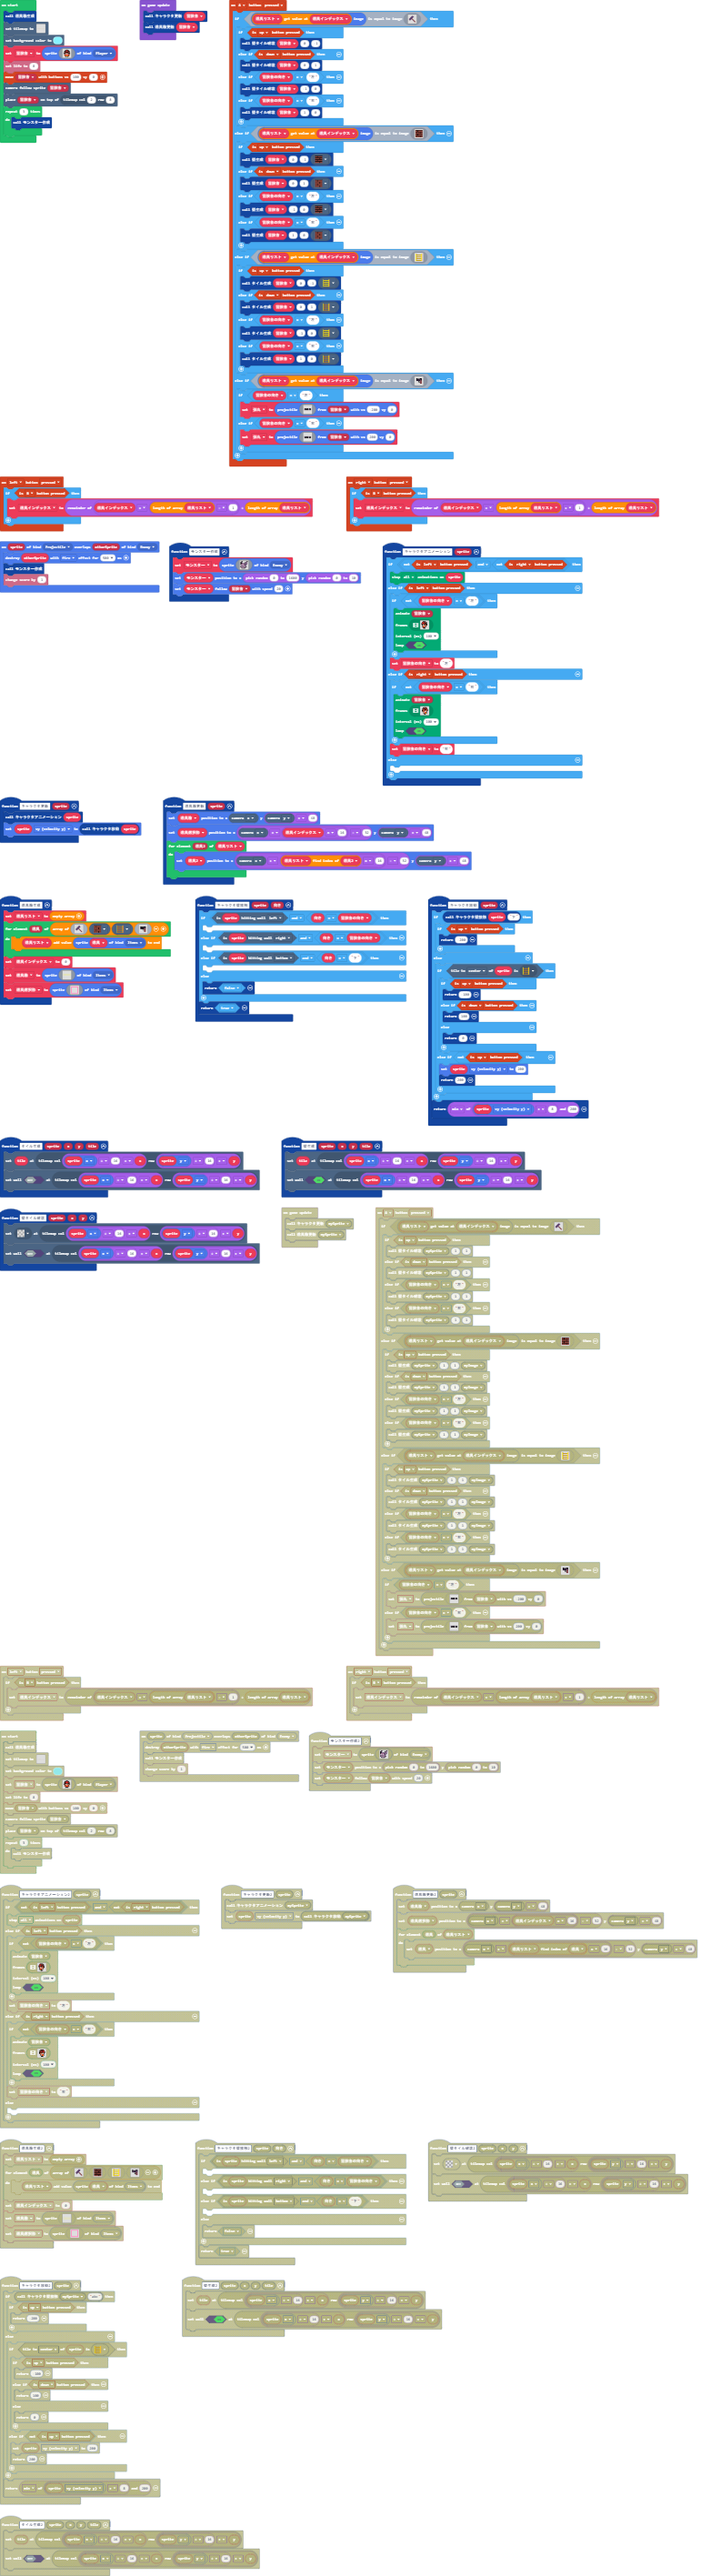
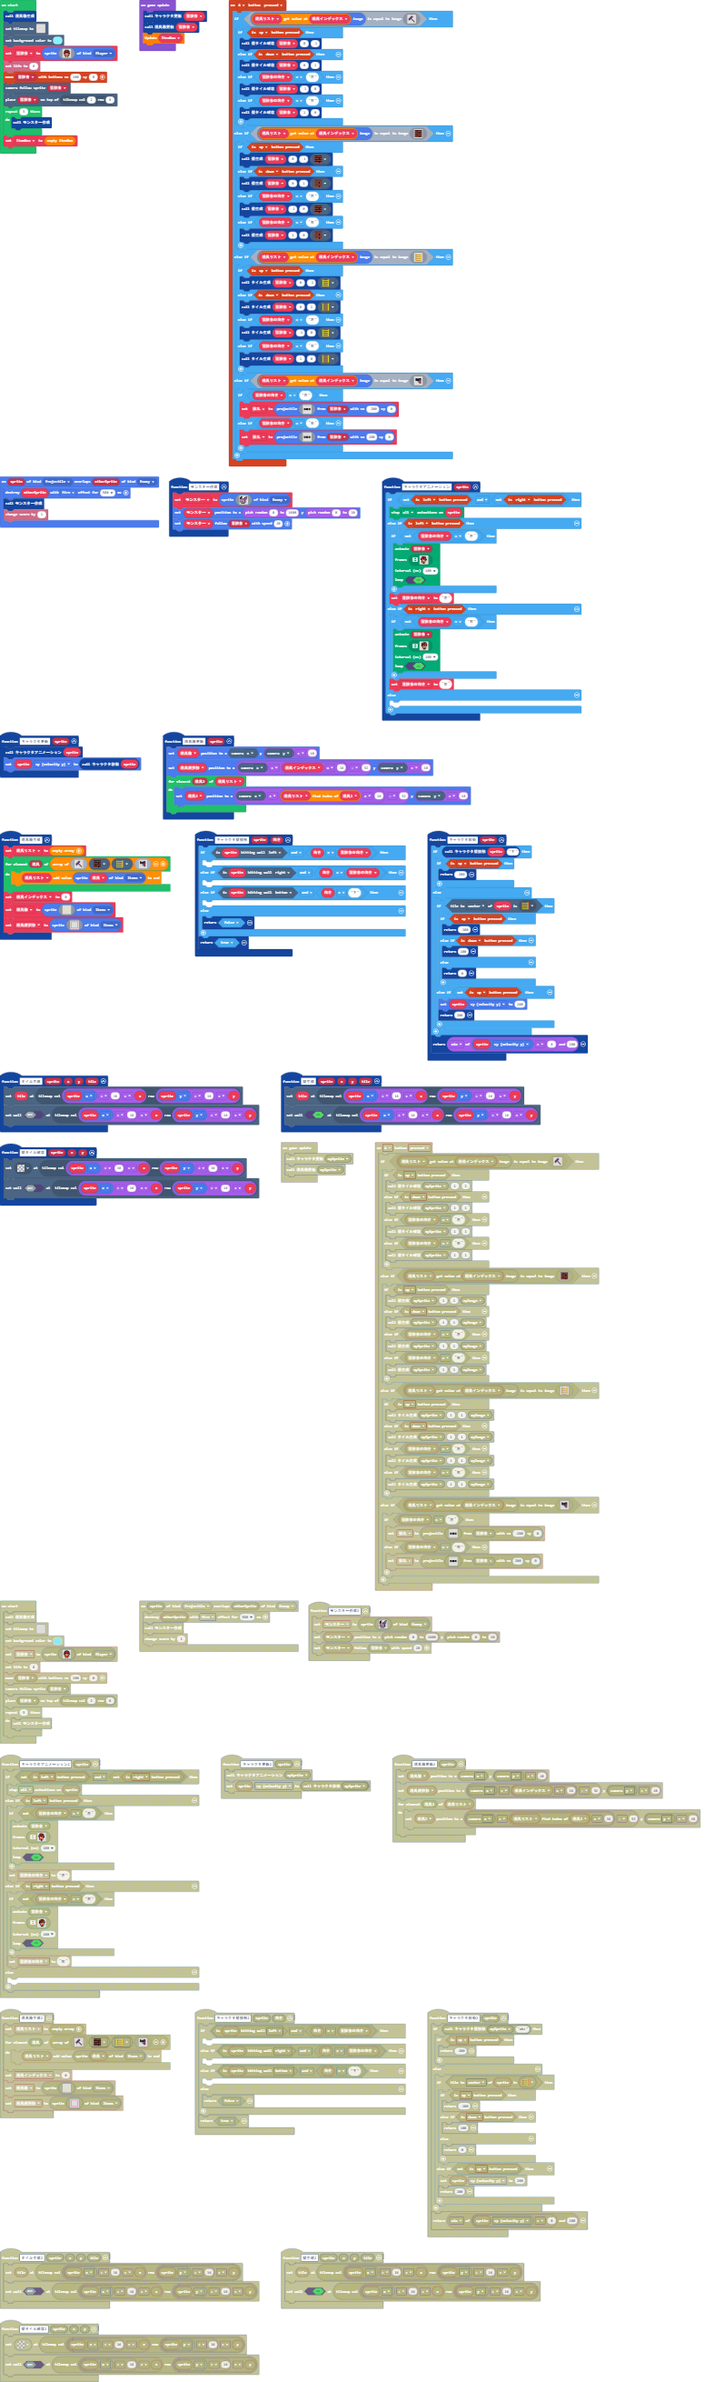
Update pxt.json, main.blocks, main.ts, itembox.ts

Changed region(s): [[0.0, 0.0, 0.9685, 1.0], [0.0, 0.0, 0.1513, 0.0618], [0.1816, 0.0, 0.2724, 0.0309]]

diff --git a/itembox.ts b/itembox.ts
@@ -1,0 +1,277 @@
+// /**
+//  * Functions that create objects should store them in variables.
+//  */
+// //% color="#AA278D"
+// namespace language {
+//     //%
+//     export class Robot { }
+
+//     /**
+//      * Creates a robot and automtically set it to a variable
+//      */
+//     //% block="create robot"
+//     //% blockSetVariable=robot
+//     export function createRobot(): Robot {
+//         return undefined;
+//     }
+// }
+
+
+// namespace SpriteKind {
+//     export const Items = SpriteKind.create()
+// }
+
+
+/**
+ * Declare a class outside and attach to a namespace.
+ */
+//% blockNamespace=Items color="#FF8000"
+class Item {
+    _name: string;
+    _sprite: Sprite;
+
+    constructor(name: string, sprite: Sprite) {
+        this._name = name;
+        this._sprite = sprite;
+    }
+
+    /**
+     * Set a name to the Item
+     * @param name
+     */
+    //% block="turn %Items(ItemBox) %active"
+    setName(name: string) {
+        this._name = name;
+    }
+    
+}
+
+
+// function 道具箱生成 () {
+//     道具リスト = []
+//     for (let 道具 of [assets.image`ハンマー`, assets.tile`壁タイル`, assets.tile`ハシゴタイル`, assets.image`ハンドガン`]) {
+//         道具リスト.push(sprites.create(道具, SpriteKind.Items))
+//     }
+//     道具インデックス = 0
+//     道具箱 = sprites.create(img`
+//         55555555555555555555555555555555555555555555555555555555555555555555555555555555
+//         5...............5...............5...............5...............5..............5
+//         5...............5...............5...............5...............5..............5
+//         5...............5...............5...............5...............5..............5
+//         5...............5...............5...............5...............5..............5
+//         5...............5...............5...............5...............5..............5
+//         5...............5...............5...............5...............5..............5
+//         5...............5...............5...............5...............5..............5
+//         5...............5...............5...............5...............5..............5
+//         5...............5...............5...............5...............5..............5
+//         5...............5...............5...............5...............5..............5
+//         5...............5...............5...............5...............5..............5
+//         5...............5...............5...............5...............5..............5
+//         5...............5...............5...............5...............5..............5
+//         5...............5...............5...............5...............5..............5
+//         55555555555555555555555555555555555555555555555555555555555555555555555555555555
+//         `, SpriteKind.Items)
+//     道具選択枠 = sprites.create(img`
+//         3 3 3 3 3 3 3 3 3 3 3 3 3 3 3 3 
+//         3 3 3 3 3 3 3 3 3 3 3 3 3 3 3 3 
+//         3 3 . . . . . . . . . . . . 3 3 
+//         3 3 . . . . . . . . . . . . 3 3 
+//         3 3 . . . . . . . . . . . . 3 3 
+//         3 3 . . . . . . . . . . . . 3 3 
+//         3 3 . . . . . . . . . . . . 3 3 
+//         3 3 . . . . . . . . . . . . 3 3 
+//         3 3 . . . . . . . . . . . . 3 3 
+//         3 3 . . . . . . . . . . . . 3 3 
+//         3 3 . . . . . . . . . . . . 3 3 
+//         3 3 . . . . . . . . . . . . 3 3 
+//         3 3 . . . . . . . . . . . . 3 3 
+//         3 3 . . . . . . . . . . . . 3 3 
+//         3 3 3 3 3 3 3 3 3 3 3 3 3 3 3 3 
+//         3 3 3 3 3 3 3 3 3 3 3 3 3 3 3 3 
+//         `, SpriteKind.Items)
+// }
+
+function createItemFrame(): Sprite {
+    return sprites.create(img`
+        55555555555555555555555555555555555555555555555555555555555555555555555555555555
+        5...............5...............5...............5...............5..............5
+        5...............5...............5...............5...............5..............5
+        5...............5...............5...............5...............5..............5
+        5...............5...............5...............5...............5..............5
+        5...............5...............5...............5...............5..............5
+        5...............5...............5...............5...............5..............5
+        5...............5...............5...............5...............5..............5
+        5...............5...............5...............5...............5..............5
+        5...............5...............5...............5...............5..............5
+        5...............5...............5...............5...............5..............5
+        5...............5...............5...............5...............5..............5
+        5...............5...............5...............5...............5..............5
+        5...............5...............5...............5...............5..............5
+        5...............5...............5...............5...............5..............5
+        55555555555555555555555555555555555555555555555555555555555555555555555555555555
+        `, SpriteKind.Items)
+}
+
+function createItemFocus(): Sprite {
+    return sprites.create(img`
+        3 3 3 3 3 3 3 3 3 3 3 3 3 3 3 3 
+        3 3 3 3 3 3 3 3 3 3 3 3 3 3 3 3 
+        3 3 . . . . . . . . . . . . 3 3 
+        3 3 . . . . . . . . . . . . 3 3 
+        3 3 . . . . . . . . . . . . 3 3 
+        3 3 . . . . . . . . . . . . 3 3 
+        3 3 . . . . . . . . . . . . 3 3 
+        3 3 . . . . . . . . . . . . 3 3 
+        3 3 . . . . . . . . . . . . 3 3 
+        3 3 . . . . . . . . . . . . 3 3 
+        3 3 . . . . . . . . . . . . 3 3 
+        3 3 . . . . . . . . . . . . 3 3 
+        3 3 . . . . . . . . . . . . 3 3 
+        3 3 . . . . . . . . . . . . 3 3 
+        3 3 3 3 3 3 3 3 3 3 3 3 3 3 3 3 
+        3 3 3 3 3 3 3 3 3 3 3 3 3 3 3 3 
+        `, SpriteKind.Items)
+}
+
+/**
+ * Declare a class outside and attach to a namespace.
+ */
+//% blockNamespace=Items color="#FF8000"
+class ItemBox {
+    _selected: number;
+    _focus: Sprite;
+    _frame: Sprite;
+
+    _items: Item[];
+
+    constructor() {
+        this._selected = 0;
+        this._frame = createItemFrame();
+        this._focus = createItemFocus();
+
+        this._items = [];
+        // this._items.push(new Item("ハンマー", sprites.create(assets.image`ハンマー`, SpriteKind.Items)));
+        // this._items.push(new Item("壁タイル", sprites.create(assets.image`壁タイル`, SpriteKind.Items)));
+        // this._items.push(new Item("ハシゴタイル", sprites.create(assets.image`ハシゴタイル`, SpriteKind.Items)));
+        // this._items.push(new Item("ハンドガン", sprites.create(assets.image`ハンドガン`, SpriteKind.Items)));
+
+    }
+
+    /**
+     * Use "$this" to define a variable block that
+     * references the "this" pointer.
+     */
+    //% block="ItemBox $this(ItemBox) add $item"    
+    addItem(item: Item) {
+        this._items.push(item);
+    }
+
+    /**
+     * Use "$this" to define a variable block that
+     * references the "this" pointer.
+     * @param name
+     * @param sprite
+     */
+    //% block="ItemBox $this(ItemBox) add $name %sprite "    
+    add(name:string, sprite: Sprite) {
+        let item = new Item(name, sprite);
+        this._items.push(item);
+    }
+
+    /**
+     * Use "$this" to define a variable block that
+     * references the "this" pointer.
+     */
+    //% block="Update $this(ItemBox)"    
+    update() {
+        this._frame.setPosition(scene.cameraProperty(CameraProperty.X), scene.cameraProperty(CameraProperty.Y) + 1);
+        this._focus.setPosition(scene.cameraProperty(CameraProperty.X) + this._selected * 16 - 32, scene.cameraProperty(CameraProperty.Y) + 1)
+        // 道具選択枠.setPosition(scene.cameraProperty(CameraProperty.X) + 道具インデックス * 16 - 32, scene.cameraProperty(CameraProperty.Y) + 48)
+        // for (let 道具2 of 道具リスト) {
+        //     道具2.setPosition(scene.cameraProperty(CameraProperty.X) + 道具リスト.indexOf(道具2) * 16 - 32, scene.cameraProperty(CameraProperty.Y) + 48)
+        // }
+
+    }
+
+
+}
+
+/**
+ * Widget namespace using en external class
+ */
+//% color="#FF8000"
+namespace Items {
+
+    // /**
+    //  * Create a Item and automtically set it to a variable
+    //  */
+    // //% block="create Item"
+    // //% blockSetVariable=Item
+    // export function createItem(name : string): Item {
+    //     return new Item(name);
+    // }
+
+    /**
+     * Create a ItemBox and automtically set it to a variable
+     */
+    //% block="empty ItemBox"
+    //% blockSetVariable=ItemBox
+    export function createEmptyItemBox(): ItemBox {
+        return new ItemBox();
+    }
+
+}
+
+
+// function 道具箱生成 () {
+//     道具リスト = []
+//     for (let 道具 of [assets.image`ハンマー`, assets.tile`壁タイル`, assets.tile`ハシゴタイル`, assets.image`ハンドガン`]) {
+//         道具リスト.push(sprites.create(道具, SpriteKind.Items))
+//     }
+//     道具インデックス = 0
+//     道具箱 = sprites.create(img`
+//         55555555555555555555555555555555555555555555555555555555555555555555555555555555
+//         5...............5...............5...............5...............5..............5
+//         5...............5...............5...............5...............5..............5
+//         5...............5...............5...............5...............5..............5
+//         5...............5...............5...............5...............5..............5
+//         5...............5...............5...............5...............5..............5
+//         5...............5...............5...............5...............5..............5
+//         5...............5...............5...............5...............5..............5
+//         5...............5...............5...............5...............5..............5
+//         5...............5...............5...............5...............5..............5
+//         5...............5...............5...............5...............5..............5
+//         5...............5...............5...............5...............5..............5
+//         5...............5...............5...............5...............5..............5
+//         5...............5...............5...............5...............5..............5
+//         5...............5...............5...............5...............5..............5
+//         55555555555555555555555555555555555555555555555555555555555555555555555555555555
+//         `, SpriteKind.Items)
+//     道具選択枠 = sprites.create(img`
+//         3 3 3 3 3 3 3 3 3 3 3 3 3 3 3 3 
+//         3 3 3 3 3 3 3 3 3 3 3 3 3 3 3 3 
+//         3 3 . . . . . . . . . . . . 3 3 
+//         3 3 . . . . . . . . . . . . 3 3 
+//         3 3 . . . . . . . . . . . . 3 3 
+//         3 3 . . . . . . . . . . . . 3 3 
+//         3 3 . . . . . . . . . . . . 3 3 
+//         3 3 . . . . . . . . . . . . 3 3 
+//         3 3 . . . . . . . . . . . . 3 3 
+//         3 3 . . . . . . . . . . . . 3 3 
+//         3 3 . . . . . . . . . . . . 3 3 
+//         3 3 . . . . . . . . . . . . 3 3 
+//         3 3 . . . . . . . . . . . . 3 3 
+//         3 3 . . . . . . . . . . . . 3 3 
+//         3 3 3 3 3 3 3 3 3 3 3 3 3 3 3 3 
+//         3 3 3 3 3 3 3 3 3 3 3 3 3 3 3 3 
+//         `, SpriteKind.Items)
+// }
+
+
+// function 道具箱更新 () {
+//     道具箱.setPosition(scene.cameraProperty(CameraProperty.X), scene.cameraProperty(CameraProperty.Y) + 48)
+//     道具選択枠.setPosition(scene.cameraProperty(CameraProperty.X) + 道具インデックス * 16 - 32, scene.cameraProperty(CameraProperty.Y) + 48)
+//     for (let 道具2 of 道具リスト) {
+//         道具2.setPosition(scene.cameraProperty(CameraProperty.X) + 道具リスト.indexOf(道具2) * 16 - 32, scene.cameraProperty(CameraProperty.Y) + 48)
+//     }
+// }

diff --git a/main.ts b/main.ts
@@ -384,7 +384,9 @@ tiles.placeOnTile(冒険者, tiles.getTileLocation(2, 8))
 for (let index = 0; index < 3; index++) {
     モンスター作成()
 }
+let ItemBox2 = Items.createEmptyItemBox()
 game.onUpdate(function () {
     キャラクタ更新(冒険者)
     道具箱更新(冒険者)
+    ItemBox2.update()
 })
